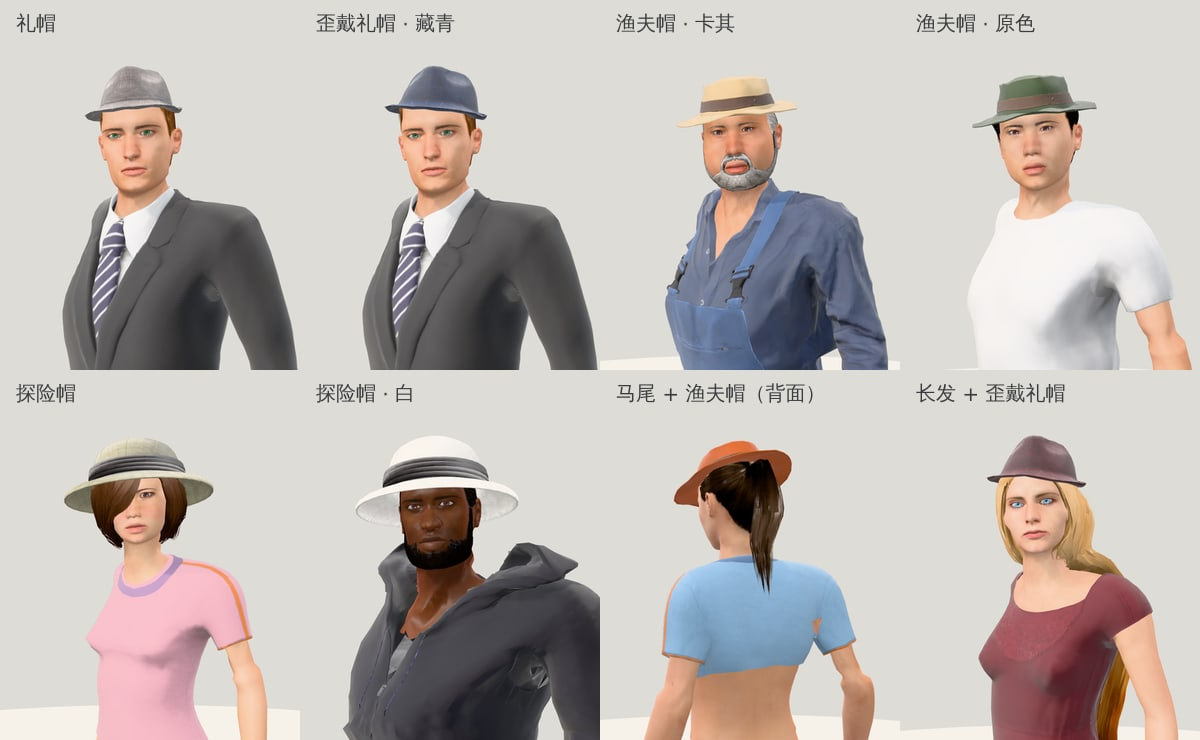
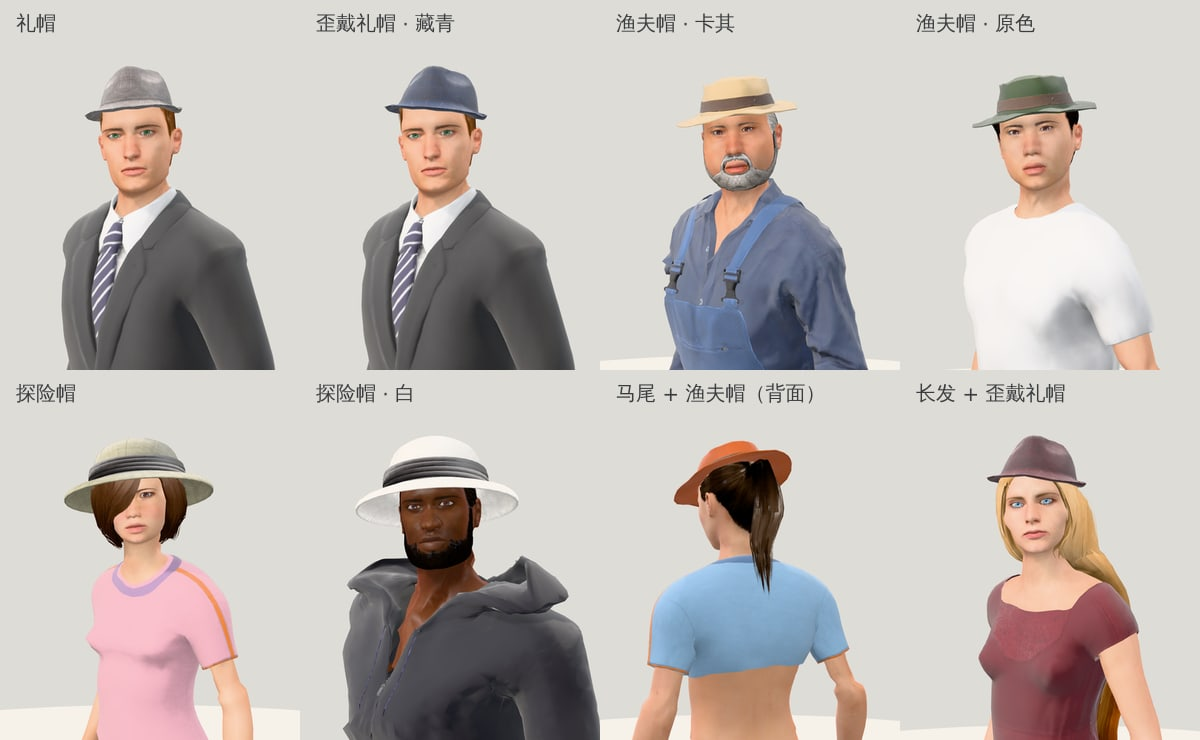
Creator: keep shoulders in place (no more chests on men), show skin in open necklines
- The animation library's clavicles point 30 degrees backward at rest
  while ours are nearly level, so matching their direction pulled both
  shoulders 6-9 cm back and 4-5 cm up in every clip. The skin between
  the shoulders bunched into two mounds (every man looked like he had
  breasts) and collars were dragged wide open. Clavicles now take their
  parent's rest alignment plus the clip's own clavicle motion, so the
  shoulders stay within 1-2 cm of rest while shrugs still come through.
- Community tops without delete_verts hide skin by coverage, which also
  swallowed the skin inside the hoodie's open V: looking into the collar
  showed the inside of the back panel, a black hole on the chest. Each
  covered skin vertex now casts a ray along its normal (25 cm); if it
  misses the garment the skin is visible through an opening and stays.
- README notes; previews regenerated

Claude-Session: https://claude.ai/code/session_0144Myy6e38g8r8YvUr92puP

diff --git a/viewer/creator.html b/viewer/creator.html
@@ -1383,7 +1383,52 @@ function coverOf(p) {
 }
 // 没带 delete_verts 的衣服（社区的短裙、短裤）底下要藏的身体：宽松的部分也算（裙子里面的大腿，腿一迈会从前片穿出来），
 // 离衣服边再远一圈
-const underOf = (p) => (p.under ??= skinUnder(p, () => true, 5));
+const underOf = (p) => (p.under ??= p.cat === 'top' ? seenThrough(p, skinUnder(p, () => true, 5)) : skinUnder(p, () => true, 5));
+// 上衣的开口（拉链卫衣敞着的 V 领）：上面按“长三圈再缩回来”补洞时会把开口里的皮肤也算成盖住了，藏掉以后从开口看进去
+// 是衣服后片的里子，胸口一片黑。逐个皮肤顶点从静止形状上沿法线往外看 25cm：碰不到这件衣服的，就是从开口露出来的，不藏。
+// 只用在上衣上：裙子、短裤底下的大腿内侧往外看也碰不到裙子，可那里是要藏的（腿一迈会从前片穿出来）
+function seenThrough(p, set) {
+  const X0 = H.pos0, X = HM.fitProxy(p, X0), d = p.data, N = (REST_N ??= skinNormals(X0)), C = 0.04, R = 0.25;
+  const tri = [];
+  for (let t = 0; t < d.index.length; t += 3) tri.push(d.map[d.index[t]], d.map[d.index[t + 1]], d.map[d.index[t + 2]]);
+  // 三角形按包围盒（外扩半格）放进 4cm 的格子
+  const grid = new Map(), key = (i, j, k) => `${i},${j},${k}`;
+  for (let t = 0; t < tri.length; t += 3) {
+    const lo = [0, 1, 2].map((a) => Math.floor((Math.min(X[tri[t] * 3 + a], X[tri[t + 1] * 3 + a], X[tri[t + 2] * 3 + a]) - C / 2) / C));
+    const hi = [0, 1, 2].map((a) => Math.floor((Math.max(X[tri[t] * 3 + a], X[tri[t + 1] * 3 + a], X[tri[t + 2] * 3 + a]) + C / 2) / C));
+    for (let i = lo[0]; i <= hi[0]; i++) for (let j = lo[1]; j <= hi[1]; j++) for (let k = lo[2]; k <= hi[2]; k++) {
+      const c = key(i, j, k);
+      if (!grid.has(c)) grid.set(c, []);
+      grid.get(c).push(t);
+    }
+  }
+  // 射线和三角形（Möller–Trumbore）
+  const hit = (ox, oy, oz, dx, dy, dz, t) => {
+    const a = tri[t] * 3, b = tri[t + 1] * 3, c = tri[t + 2] * 3;
+    const e1x = X[b] - X[a], e1y = X[b + 1] - X[a + 1], e1z = X[b + 2] - X[a + 2], e2x = X[c] - X[a], e2y = X[c + 1] - X[a + 1], e2z = X[c + 2] - X[a + 2];
+    const px = dy * e2z - dz * e2y, py = dz * e2x - dx * e2z, pz = dx * e2y - dy * e2x, det = e1x * px + e1y * py + e1z * pz;
+    if (Math.abs(det) < 1e-12) return false;
+    const inv = 1 / det, sx = ox - X[a], sy = oy - X[a + 1], sz = oz - X[a + 2], u = (sx * px + sy * py + sz * pz) * inv;
+    if (u < 0 || u > 1) return false;
+    const qx = sy * e1z - sz * e1y, qy = sz * e1x - sx * e1z, qz = sx * e1y - sy * e1x, w = (dx * qx + dy * qy + dz * qz) * inv;
+    if (w < 0 || u + w > 1) return false;
+    const h = (e2x * qx + e2y * qy + e2z * qz) * inv;
+    return h > 0 && h < R;
+  };
+  const out = set.slice(), seen = new Set();
+  for (let v = 0; v < H.nv; v++) {
+    if (!set[v]) continue;
+    const dx = N[v * 3], dy = N[v * 3 + 1], dz = N[v * 3 + 2], ox = X0[v * 3] + dx * 0.002, oy = X0[v * 3 + 1] + dy * 0.002, oz = X0[v * 3 + 2] + dz * 0.002;
+    seen.clear();
+    let covered = false;
+    for (let r = 0; r <= R && !covered; r += C / 4) {
+      const list = grid.get(key(Math.floor((ox + dx * r) / C), Math.floor((oy + dy * r) / C), Math.floor((oz + dz * r) / C)));
+      if (list) for (const t of list) { if (seen.has(t)) continue; seen.add(t); if (hit(ox, oy, oz, dx, dy, dz, t)) { covered = true; break; } }
+    }
+    if (!covered) out[v] = 0;
+  }
+  return out;
+}
 // 衣服 p 底下的皮肤顶点：use(i) 的那些、不在边上的代理顶点，脚下的和挂的（权重大于 0.2，换成皮肤顶点）都算，
 // 往外长三圈补洞，再往里缩 shrinkBy 圈
 // 衣服边上的代理顶点（只属于一个三角形的边）
@@ -1469,12 +1514,17 @@ function bindRest() {
   skeleton.calculateInverses();
   for (const m of skinned) { m.bindMatrix.copy(m.matrixWorld); m.bindMatrixInverse.copy(m.matrixWorld).invert(); }
   // 动作换骨架：我们每根骨头的静止方向 → 源骨架静止方向的旋转
-  restQ = H.rig.bones.map((b, i) => {
+  restQ = [];
+  H.rig.bones.forEach((b, i) => {
     const k = ANIM.bones.indexOf(b.name);
-    if (k < 0) return null;
+    if (k < 0) { restQ[i] = null; return; }
     const d = tail(i).sub(head(i)).normalize();
     const s = new THREE.Vector3(...ANIM.restDir[k]);
-    return new THREE.Quaternion().setFromUnitVectors(d, s);
+    // 锁骨不对齐方向：动作库小人的锁骨静止时往后斜 30°，我们的几乎是平的（往下斜 10°）——硬对齐会把两个肩膀往后、往上
+    // 拽 6 ~ 9cm，胸口的皮肤被两边的肩膀挤成两团（男人也像有胸），衣服领口也被扯开。锁骨只跟着胸口（父骨头）的对齐走，
+    // 再加上动作库里锁骨相对胸口转了多少：肩膀留在我们自己的位置上，动作里耸肩、含胸照样有
+    if (/^clavicle_/.test(b.name)) { restQ[i] = (restQ[b.parent] ?? new THREE.Quaternion()).clone(); return; }
+    restQ[i] = new THREE.Quaternion().setFromUnitVectors(d, s);
   });
   pelvisRest = bones[BI.pelvis].position.clone();
   if (prop) prop.want.place(prop.obj, (pelvisRest.y - groundY) / 0.92);

diff --git a/README.md b/README.md
@@ -2196,6 +2196,8 @@ GTA 的模型和贴图是 Rockstar 的版权，这里一个都没用，照着做
   挂在壳上的衣服用的是壳的蒙皮权重，和下面的皮肤不完全一样（短裙腰头的骨盆权重 0.1，肚子上只有 0.02），一动起来肚子就从腰头顶出来：
   贴身的地方（静止时离皮肤 1cm 以内）改用下面皮肤的权重，离开 2.5cm 以上的保持原样，中间渐变；宽松的地方再沿衣服自己的网格把权重平滑几遍
   （V 领背心的下摆两种壳的顶点交替，不平滑的话一迈腿下摆就错成锯齿）。社区的短裙、短裤没带 `delete_verts`，按衣服实际盖住的范围藏身体（离衣服边留两圈）。
+  社区的上衣也有不带的，按范围藏会把开口里的皮肤也算进去：连帽卫衣敞着的 V 领里藏掉了胸口，从领口看进去是后片的里子，一片黑。
+  上衣再逐个皮肤顶点从静止形状上沿法线往外看 25cm，碰不到这件衣服的就是从开口露出来的，不藏（一件 20 ~ 70ms，换衣服时算一次）。
   条纹衬衫半裙自带的 `delete_verts` 只删到大腿中间，半裙底下靠近下摆的那截大腿一迈腿就从前片穿出来：构建时从皮肤顶点沿法线打射线
   （8cm 以内打到半裙），或者往前、往后各打一条都打到半裙（大腿内侧夹在前片、后片中间，法线朝着另一条腿），打到的地方离裙边 3.5cm 以上的也删掉。它的半裙后面原来开着一道 17cm 高的衩，左右两片各跟各的腿走，
   站着时张成方形的缺口，构建时把衩缝上了（两边的顶点对着连成一条窄带，不加顶点），单拆出来的那条改叫直筒半裙。
@@ -2205,6 +2207,9 @@ GTA 的模型和贴图是 Rockstar 的版权，这里一个都没用，照着做
   关节跟着体型走：每个关节是身体里一小块“关节立方体”顶点的平均，拖完滑杆重新算一遍、重新绑定。
 - **动作重定向**：动作库的骨架和我们的骨架，静止姿势、骨头长度都不一样。构建时把每段动作按 30 帧 / 秒采样，存每根骨头“相对于自己静止姿势的世界空间旋转”
   和胯部的位移（以胯高为单位）；网页里先把我们这根骨头的静止方向转到源骨架的静止方向，再乘上这个旋转，最后换算回局部旋转。
+  锁骨例外：动作库小人的锁骨静止时往后斜 30°，我们的几乎是平的，硬对齐会把两个肩膀往后、往上拽 6 ~ 9cm（每段动作都是），
+  胸口的皮肤被两边的肩膀挤成两团，男人也像有了胸，衣服的领口也被扯得很开。锁骨只跟着胸口那根骨头的对齐走，
+  再加上动作库里锁骨相对胸口转了多少：肩膀留在自己的位置上（待机时离静止位置 1 ~ 2cm），耸肩、含胸照样有。
   所以同一段动作套在一米五的女孩和一米九的壮汉身上都合适。25 段动作（列出来的 23 段，加上只给“跳跃”演示用的起跳、落地两截）压缩以后 500KB，换动作时 0.35 秒交叉淡入。
   动作库的待机是给大头卡通角色做的，脸朝下 12° 左右；在待机、说话、坐、蹲这些安静的动作里，脖子和头会往镜头那边转（左右最多 34°），
   像 GTA 的创建器那样看着你，换到动作大的片段时慢慢放开。
